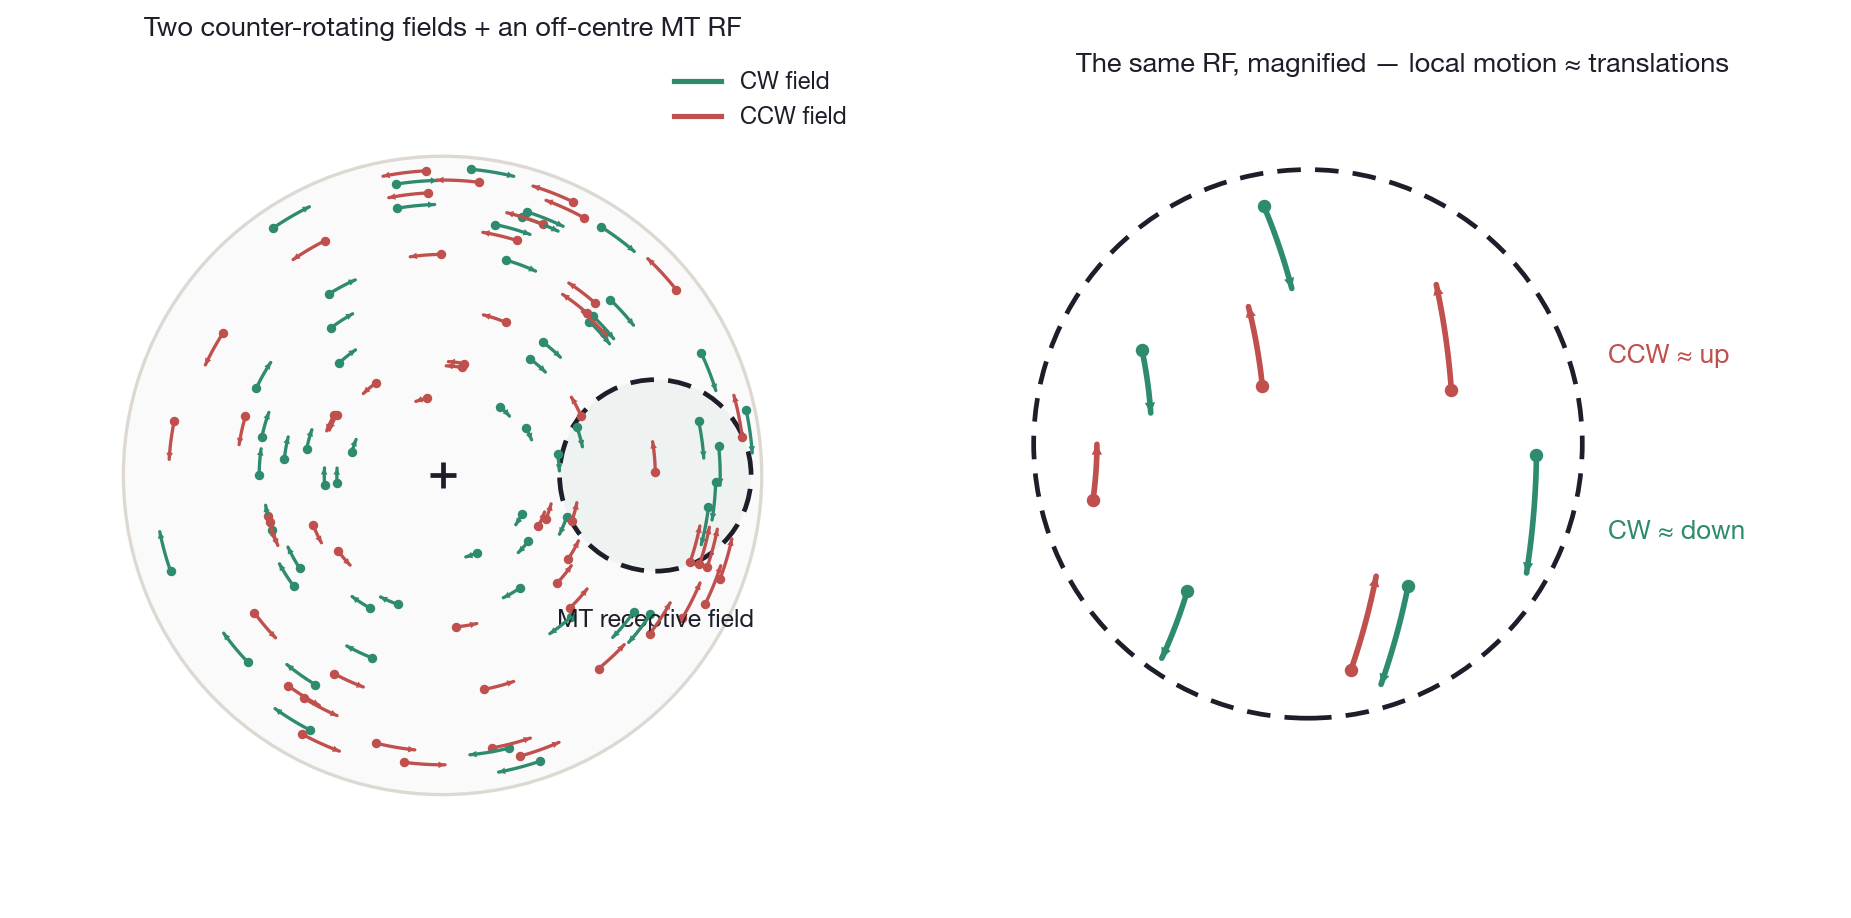
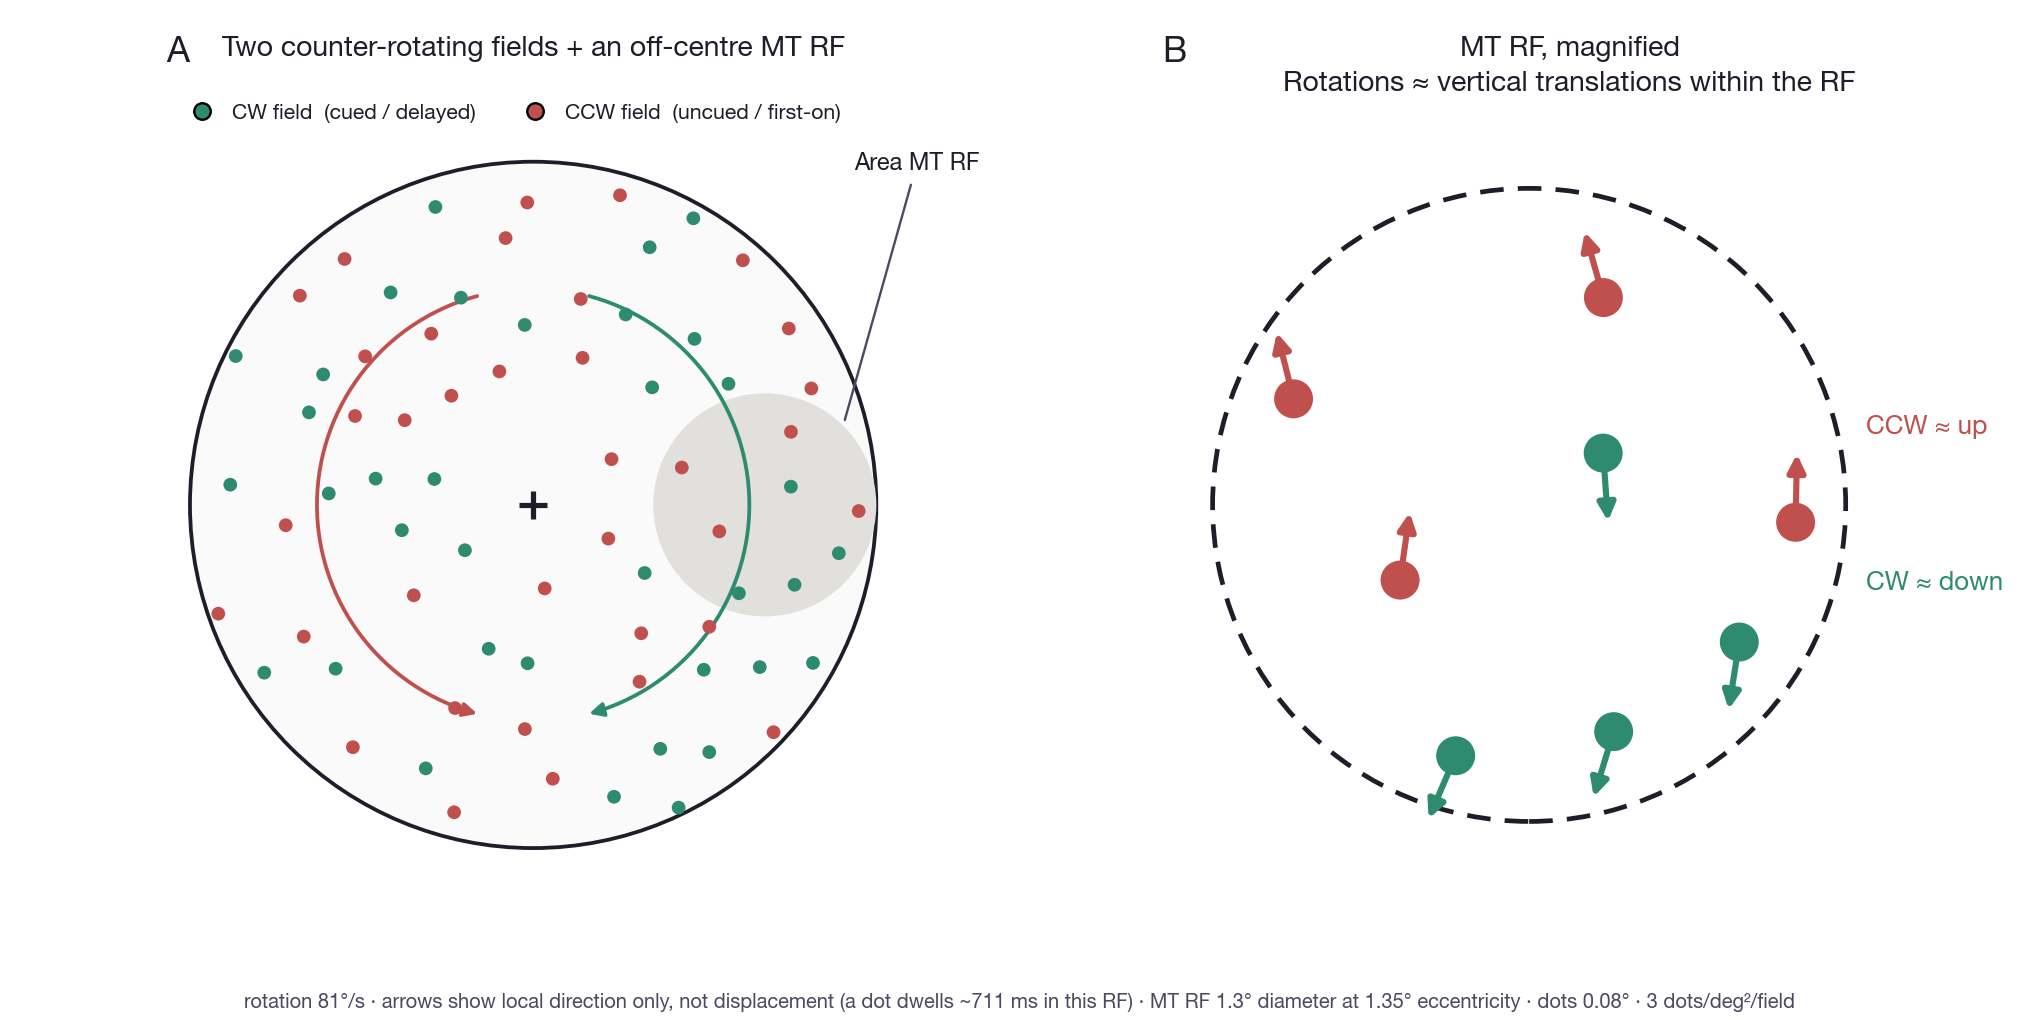
WIP: new Figure 2, Object-based models scaffold, caption draft — DO NOT PUSH YET
Committed only so the work survives a session boundary. It is NOT ready to
deploy, because pushing main deploys production and this state is internally
inconsistent on purpose.

  - public/figures/modeling/mt_rf_figure.png is the NEW Figure 2 (arcs, A/B
    panels, 2040x1020), and page.tsx now declares those dimensions and new alt
    text. But content/model-mt-rf-caption.md is still the OLD caption: it says
    "identical rotation arcs" where the panel now shows direction arrows, "each
    trace is 100 ms" where there are no traces, and "5 dots/deg2" where the
    figure uses 3. Figure and caption would disagree on the live site.
  - content/model-mt-rf-caption-claude.md is the rewritten caption, still a
    DRAFT awaiting GS. It also predates the A/B panel labels and the rotation
    arcs, so it needs one more pass.
  - page.tsx has a new empty "Object-based models" h2 with an "Area V1
    point-sets as the unit of object-based selection" h3 under it, at the old
    INSERTION POINT. Deliberately empty -- no ContentBlurb, no figure -- so
    nothing half-written can ship.

To make it deployable: settle the Figure 2 caption, swap it into
model-mt-rf-caption.md, then push. See the memory notes for the rest.

diff --git a/app/projects/object-based-attention/modeling/page.tsx b/app/projects/object-based-attention/modeling/page.tsx
@@ -79,9 +79,9 @@ export default function ModelingPage() {
           >
             <Image
               src="/figures/modeling/mt_rf_figure.png" unoptimized
-              alt="Two counter-rotating dot fields with an off-center MT receptive field; within it the rotations are locally approximate translations (clockwise down, counter-clockwise up)"
-              width={1851}
-              height={918}
+              alt="(A) Two counter-rotating dot fields, arcs marking each field's rotation sense, with an off-center MT receptive field. (B) That receptive field magnified: local motion directions, counter-clockwise up and clockwise down"
+              width={2040}
+              height={1020}
               className="w-full h-auto"
             />
           </div>
@@ -238,6 +238,41 @@ export default function ModelingPage() {
           Each will be its own <section>, same shape as the one below:
           header → prose → schematic → result → caption.
          ══════════════════════════════════════════════════════════════════════ */}
+
+      {/* ══════════════════════════════════════════════════════════════════════
+          OBJECT-BASED MODELS — the new material goes here.
+
+          Titles are GS's, tentative. Nothing below this block has been touched:
+          the existing hypercolumn / point-set section stays as it is until we
+          decide how much of it survives, so it is still its own <h2> sibling
+          rather than nested under this one. Folding it in later means demoting
+          its heading to <h3> and moving the closing tag of this section down
+          past it.
+         ══════════════════════════════════════════════════════════════════════ */}
+      <section className="space-y-12">
+        <h2 className="text-2xl font-semibold tracking-tight" style={{ color: "var(--text-primary)" }}>
+          Object-based models
+        </h2>
+
+      {/* ── V1 point-sets as the unit of selection ───────────────────────────── */}
+      <section className="space-y-8">
+        {/* Section header — title, matching the h3 sections above */}
+        <div className="mb-8">
+          <h3 className="text-xl font-semibold tracking-tight" style={{ color: "var(--text-primary)" }}>
+            Area V1 point-sets as the unit of object-based selection
+          </h3>
+        </div>
+
+        {/* CONTENT GOES HERE — prose, then the two-V1-RF schematic, then result
+            and caption, following the shape of the sections above. Deliberately
+            empty for now so nothing placeholder can ship by accident. The
+            two-V1-RF figure is built and waiting at
+            VRDots/Agents/Modeling/sb2010/ps_two_rf_figure.png; placing it will
+            renumber the hcps figures again (8-11 -> 9-12). */}
+
+      </section>
+
+      </section>{/* end Object-based models */}
 
       {/* ── The hypercolumn / point-set model ────────────────────────────────── */}
       <section className="space-y-8">

diff --git a/content/model-mt-rf-caption-claude.md b/content/model-mt-rf-caption-claude.md
@@ -1,0 +1,1 @@
+**Figure 2.** **Why we can treat the inputs as translations.** MT neurons have large receptive fields that take in both transparent surfaces at once. **(A)** Two superimposed dot fields counter-rotate about fixation — the arcs give each field's rotation sense — with one such receptive field placed off-centre, here directly right of fixation. **(B)** That same receptive field magnified: the identical dots from (A), not an idealized patch. For a receptive field off the centre of rotation, each rigidly rotating field is *locally* approximately a translation — the clockwise field drifts **down** and the counter-clockwise field drifts **up**. The arrows give each dot's local **direction only, not its displacement**: a dot dwells ~711 ms in a receptive field this size, so any short trace would draw only a fraction of the excursion the neuron actually integrates over — and direction is in any case the only thing the model reads. How good the approximation is follows from the geometry alone: the receptive field is 1.3° across with its outer edge on the aperture rim, centered at 1.35° eccentricity, so local direction departs from vertical by at most arcsin(*R*/*e*) = 29°. (Rotation is at the stimulus's 81°/s; dot density is 3 dots/deg² per field, below the experiment's 5, to keep the schematic legible.) So the two rotations and the brief translation can all be represented as motion directions on a single axis — the population drive that feeds the model. **V1** supplies that directional signal — its small receptive fields extract the local motion direction most precisely — but V1 is the *input*, not a model stage: this rotation drive depends on motion direction alone, so it is unchanged by a color or identity swap (the motion swap is taken up in [Figure 3](#figure-3)). The model's own stages live in MT. Crucially, **the model does not depend on this local-translation simplification.** It simply lets us reason with a directional MT drive and defer MST and rotation-selective neurons, which can be layered in later.
